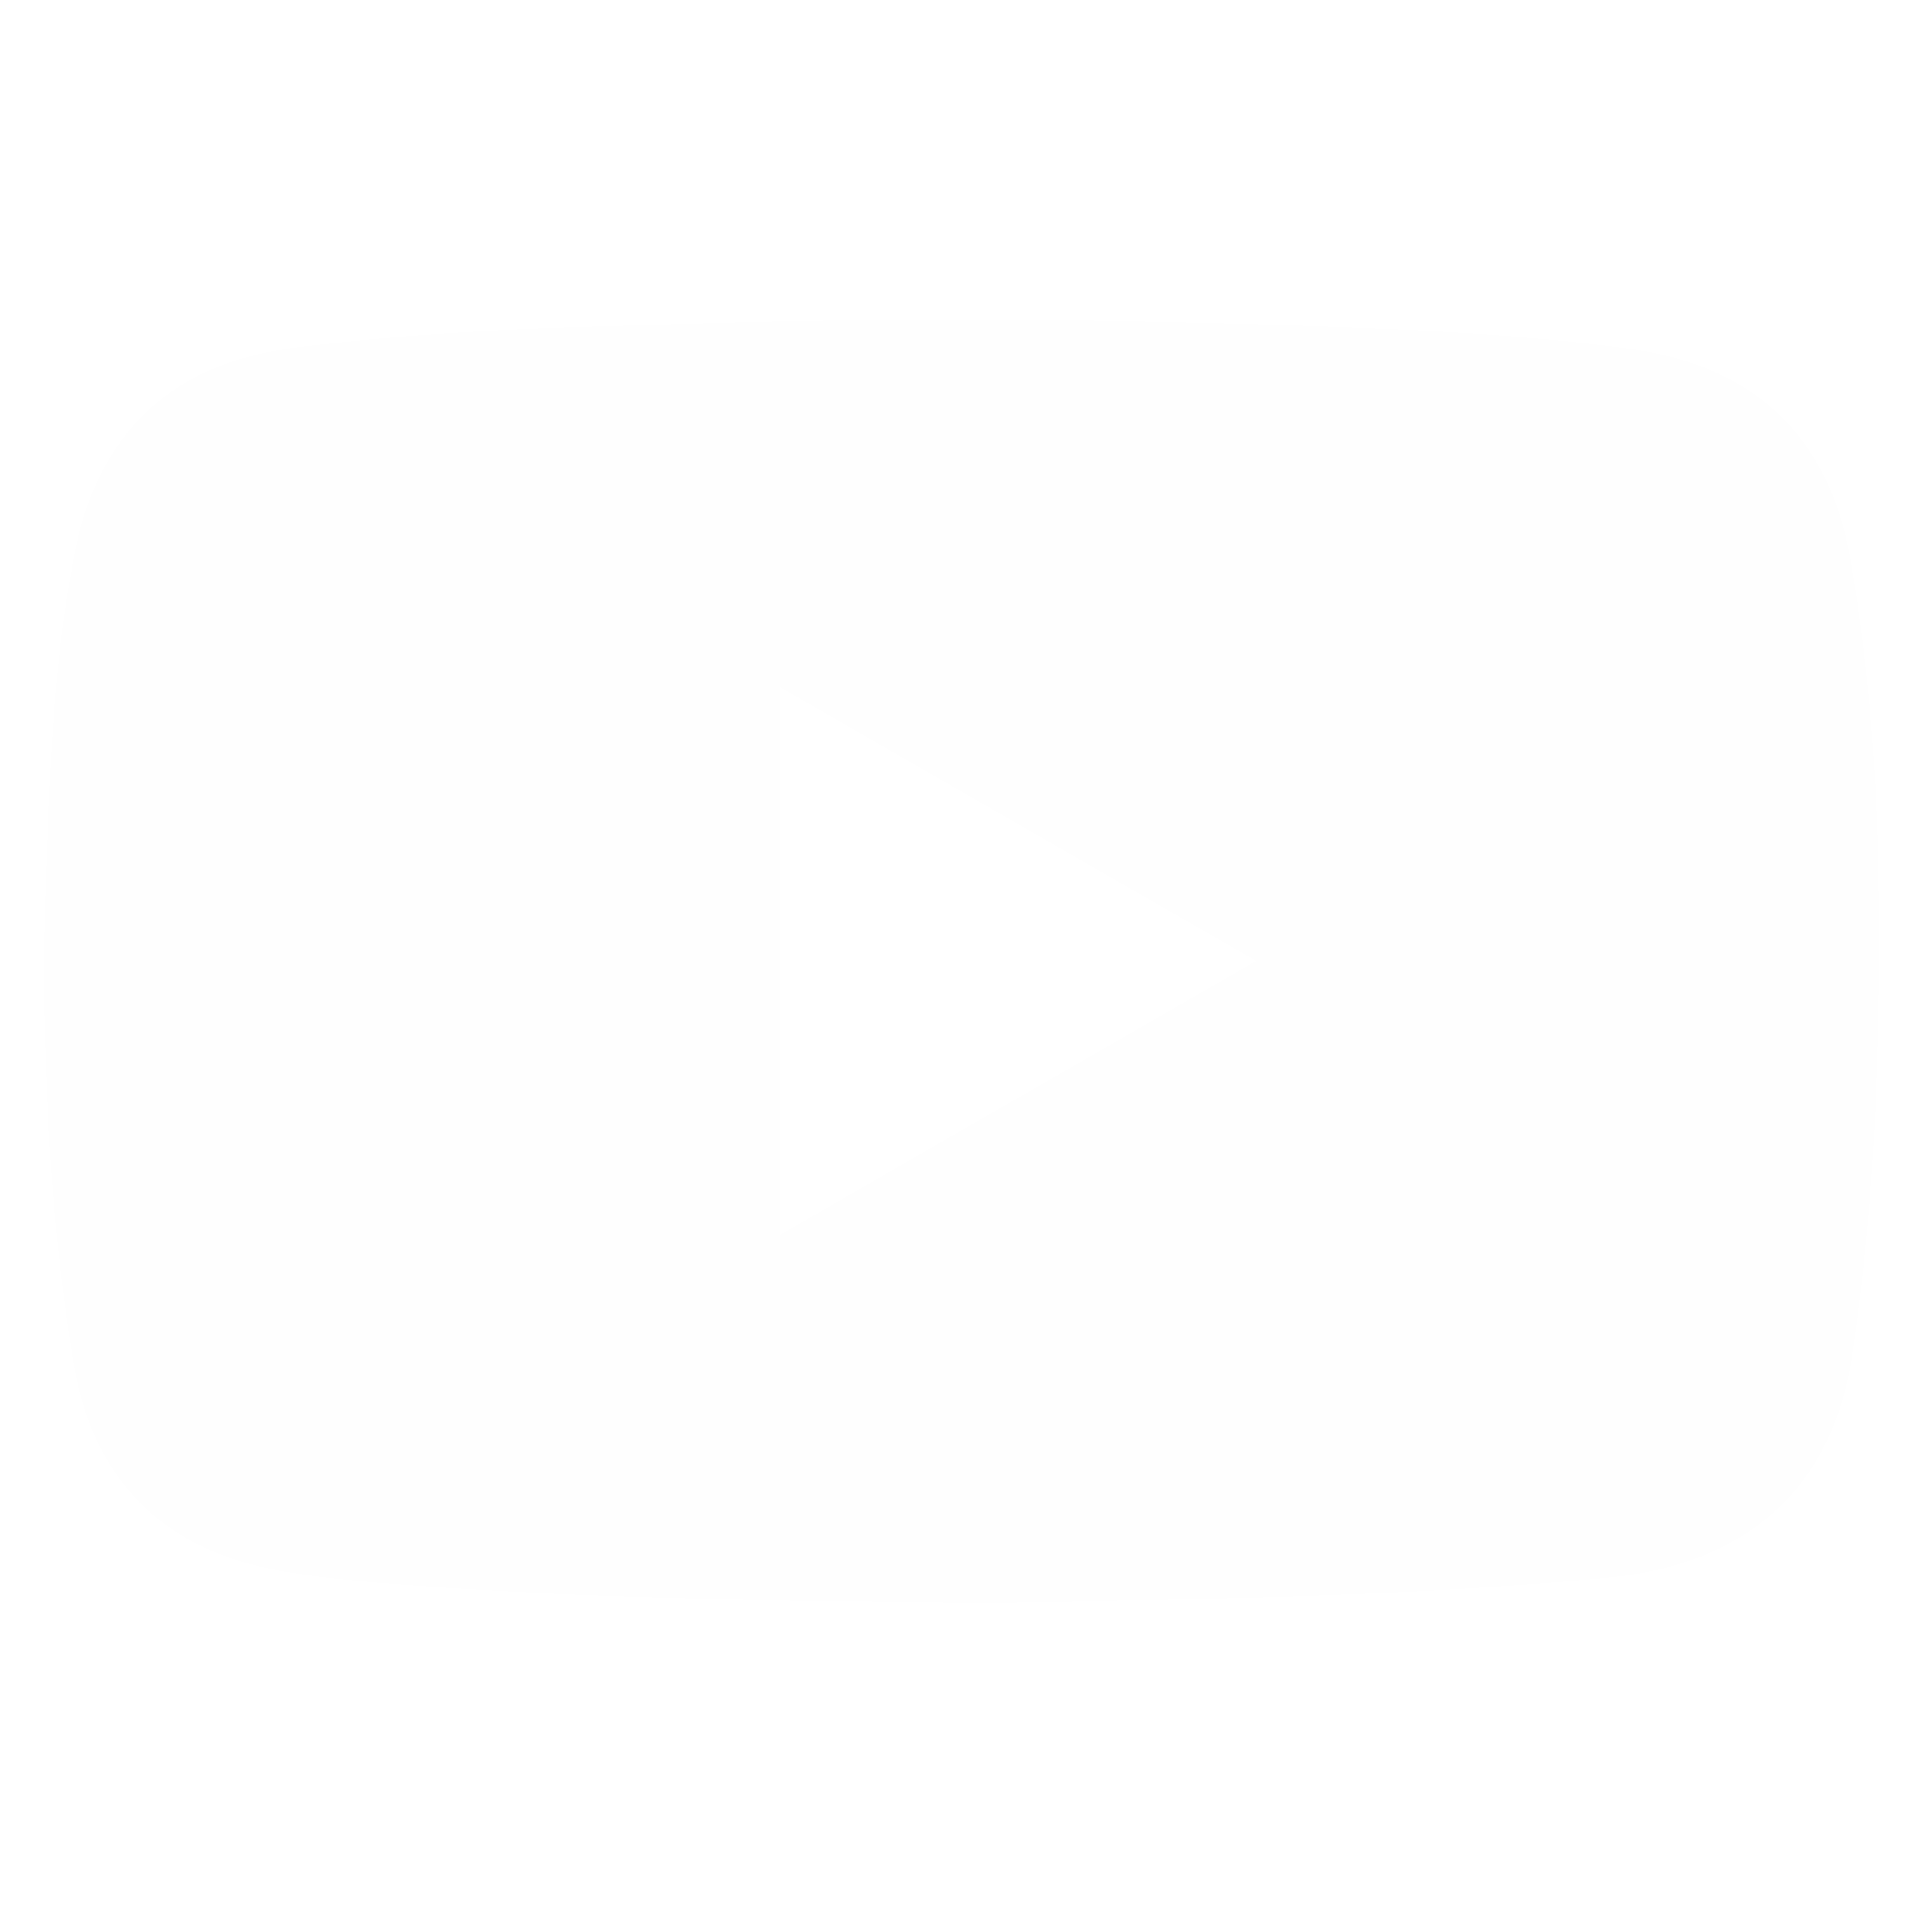
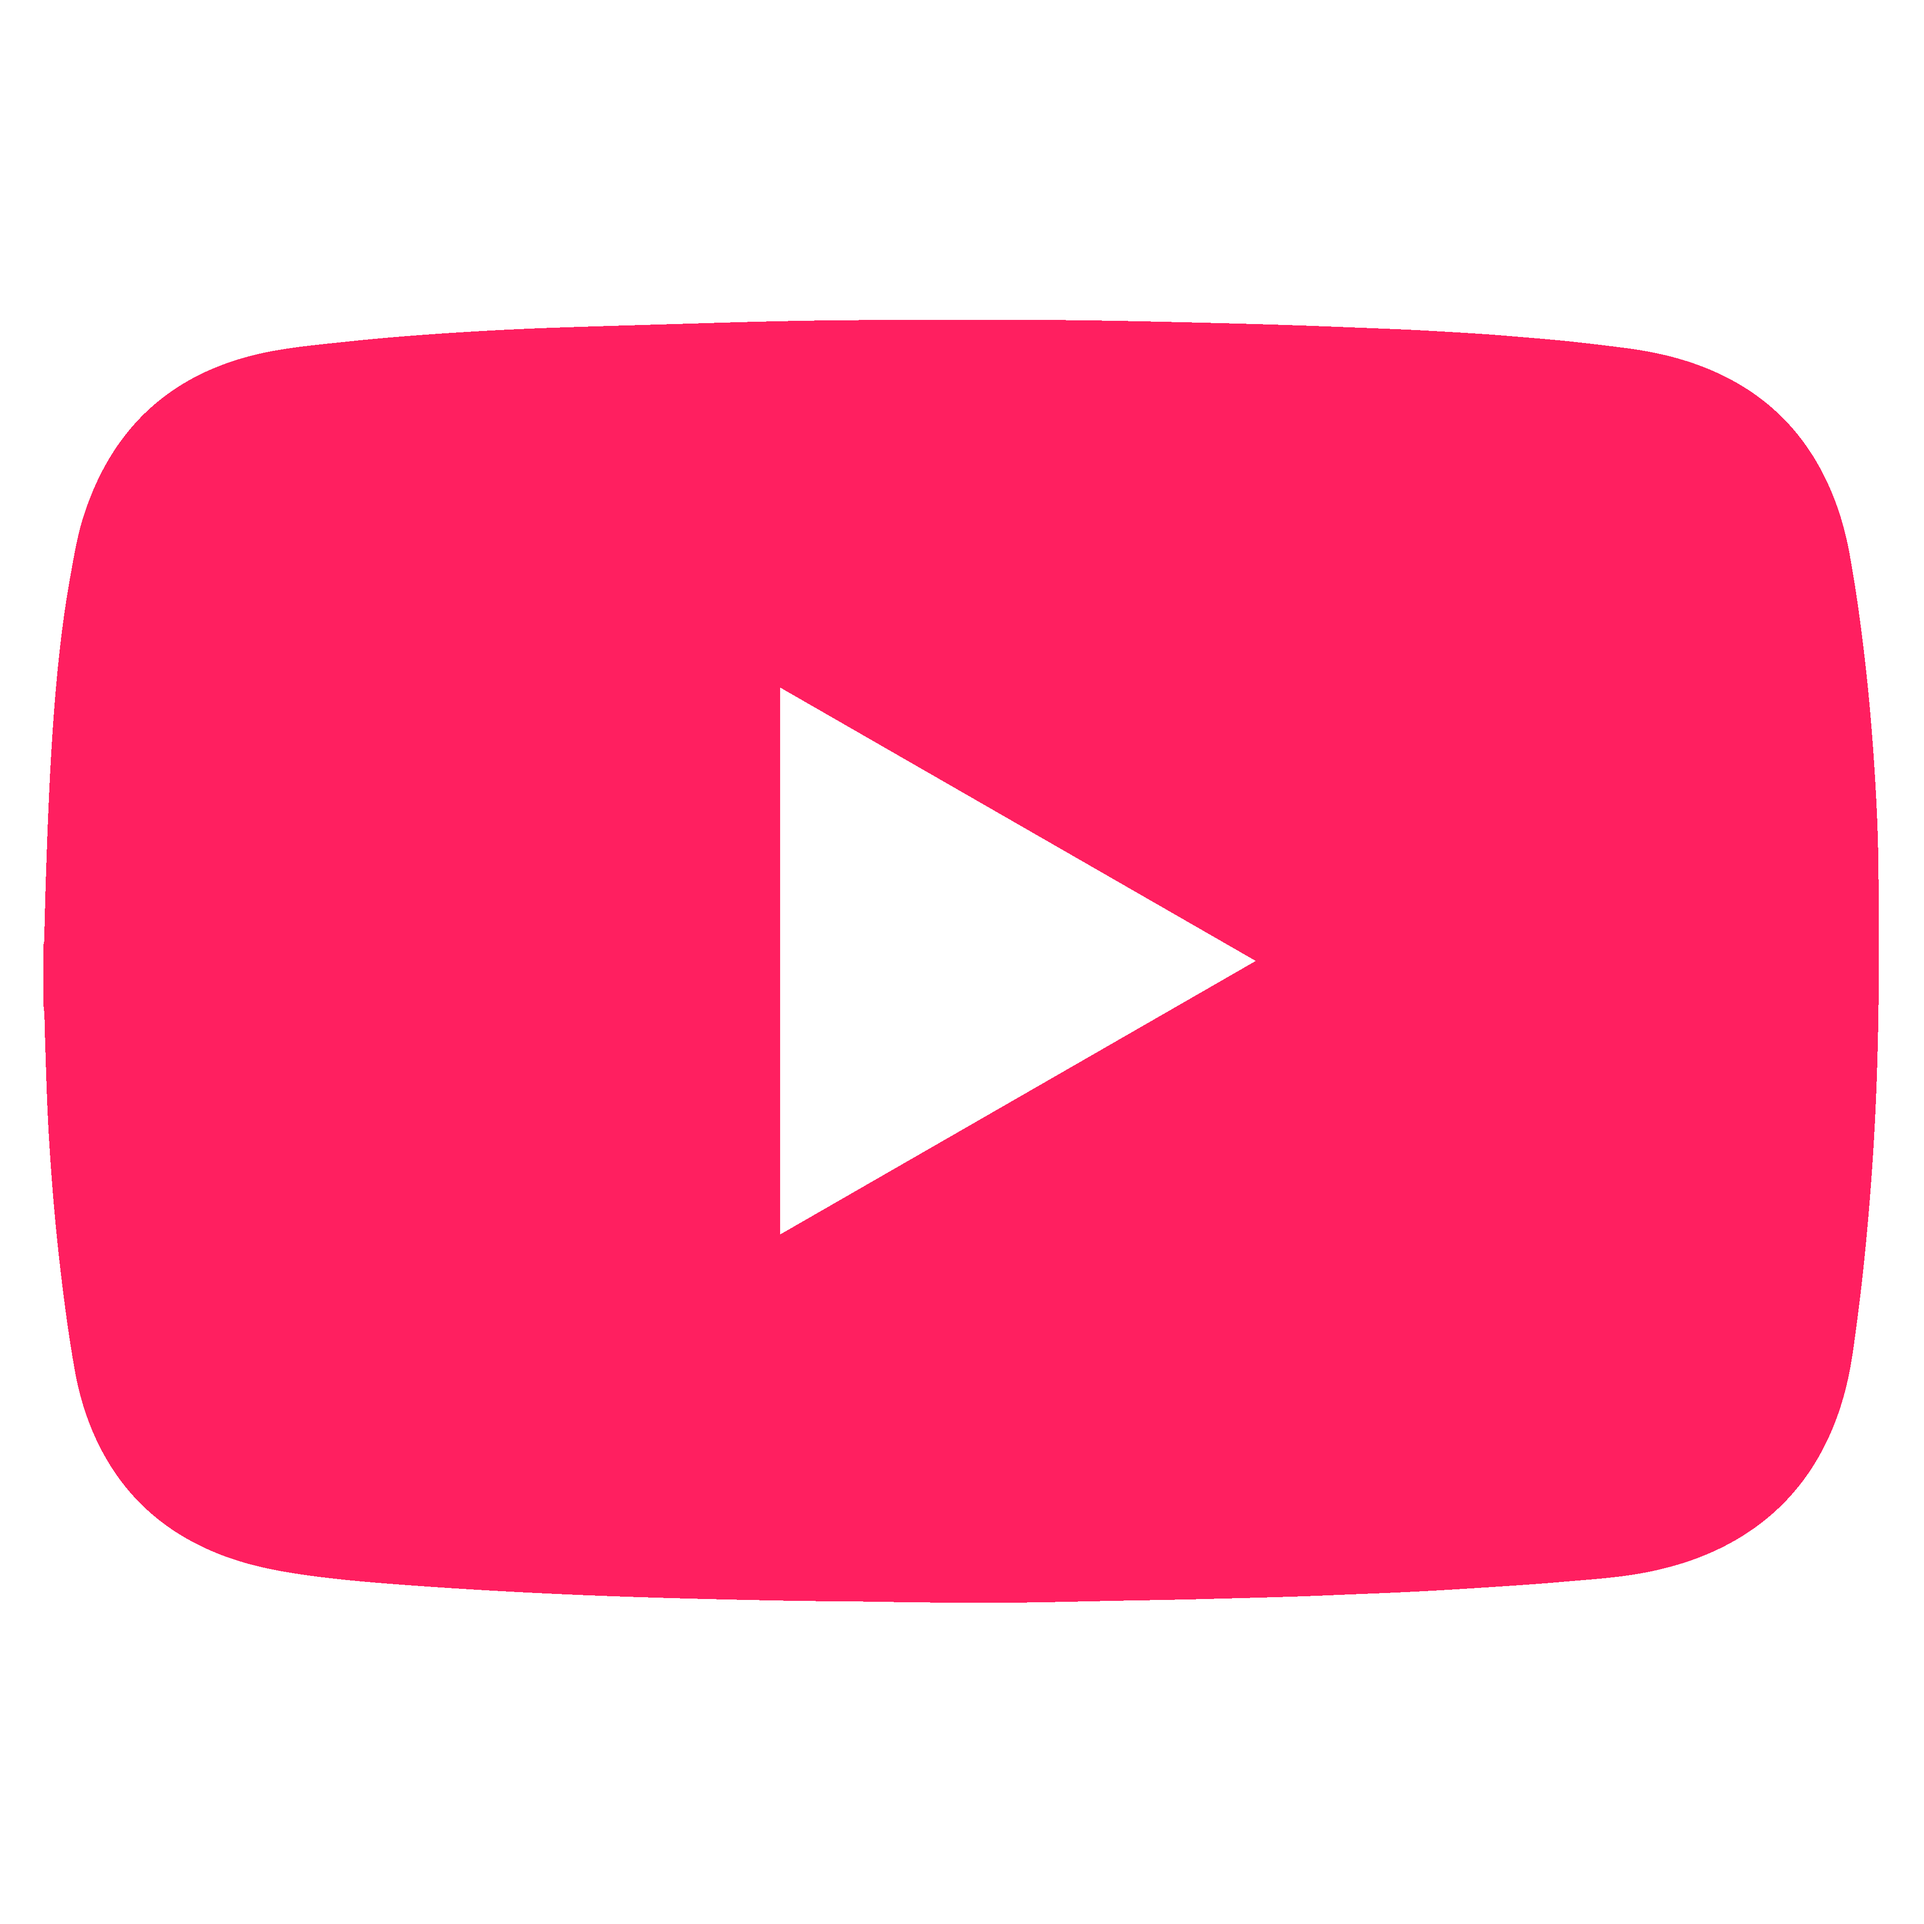
change colors

diff --git a/src/App.css b/src/App.css
@@ -1,13 +1,13 @@
 .App {
+  background-color: #FEFF01;
   text-align: center;
-  background-color: #011796;
   min-height: 100vh;
   display: flex;
   flex-direction: column;
   align-items: center;
   justify-content: center;
   font-size: calc(10px + 2vmin);
-  color: white;
+  color: black;
 }
 
 .section {
@@ -48,19 +48,19 @@
   height: 30vmin;
   pointer-events: none;
   border-radius: 50%;
-  border: 3px solid gold;
+  border: 3px solid #FF1D5C;
 }
 
 .section h1 {
   margin: 1em 0 0 0;
   padding: 0;
-  color: gold;
+  color: #FF1D5C;
 }
 
 .section h2 {
   margin: 0.5em 0 0 0;
   padding: 0;
-  color: gold;
+  color: #FF1D5C;
 }
 
 .section p {
@@ -71,9 +71,10 @@
 .section-item {
   width: 100%;
   margin: 0.5em 0 0 0;
-  background-color: #031eb6;
+  background-color: #FEFF01;
+  border: 3px solid #FF1D5C;
   border-radius: 20px;
-  box-shadow: 10px 10px rgba(0,0,0,0.6);
+  box-shadow: 8px 8px #00fff7;
 }
 
 .section-item-child {
@@ -97,7 +98,7 @@
 
 .section-item h3 {
   text-align: left;
-  color: gold;
+  color: #FF1D5C;
   margin: 0;
   padding: 0;
 }
@@ -117,6 +118,22 @@
 .social-media-logo {
   height: 10vmin;
   pointer-events: none;
+}
+
+.grow-10 {
+  transition: all .2s ease-in-out;
+}
+
+.grow-10:hover {
+  transform: scale(1.10);
+}
+
+.grow-25 {
+  transition: all .2s ease-in-out;
+}
+
+.grow-25:hover {
+  transform: scale(1.25);
 }
 
 @media (max-width: 965px) {

diff --git a/src/components/Footer.tsx b/src/components/Footer.tsx
@@ -8,7 +8,7 @@ function Footer(props: { content: any }) {
                 {list.map((item: any) => {
                     return (
                         <a href={item.url} target="_blank" rel="noreferrer">
-                            <div className='social-media-container'>
+                            <div className='social-media-container grow-25'>
                                 <img src={item.img} className="social-media-logo" alt={item.alt} />
                             </div>
                         </a>

diff --git a/src/components/Card.tsx b/src/components/Card.tsx
@@ -2,7 +2,7 @@ function Card(props: { item: any, additionalClassName?: string }) {
     const { item, additionalClassName } = props;
     const className = additionalClassName ? `section-item ${additionalClassName}` : 'section-item';
     return (
-        <div className={className}>
+        <div className={`${className} grow-10`}>
             <div className={'section-item-child'}>
                 <h3>{item.title}</h3>
                 <p>{item.info}</p>

diff --git a/src/App.tsx b/src/App.tsx
@@ -1,4 +1,3 @@
-import React from 'react';
 import { messages } from './messages';
 import Hero from './components/Hero';
 import Section from './components/Section';
